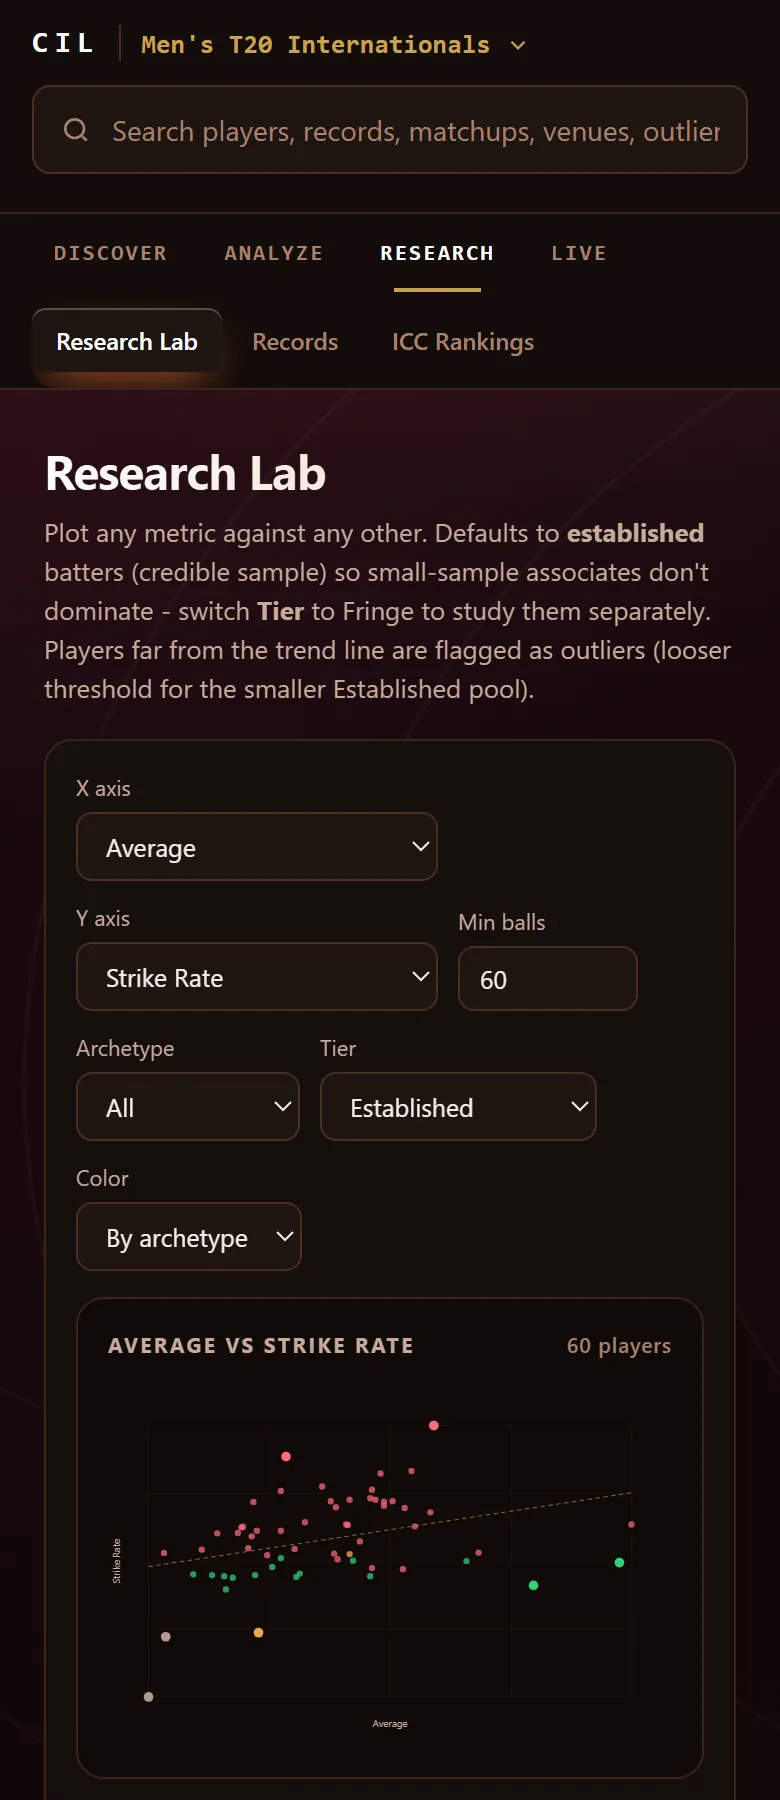
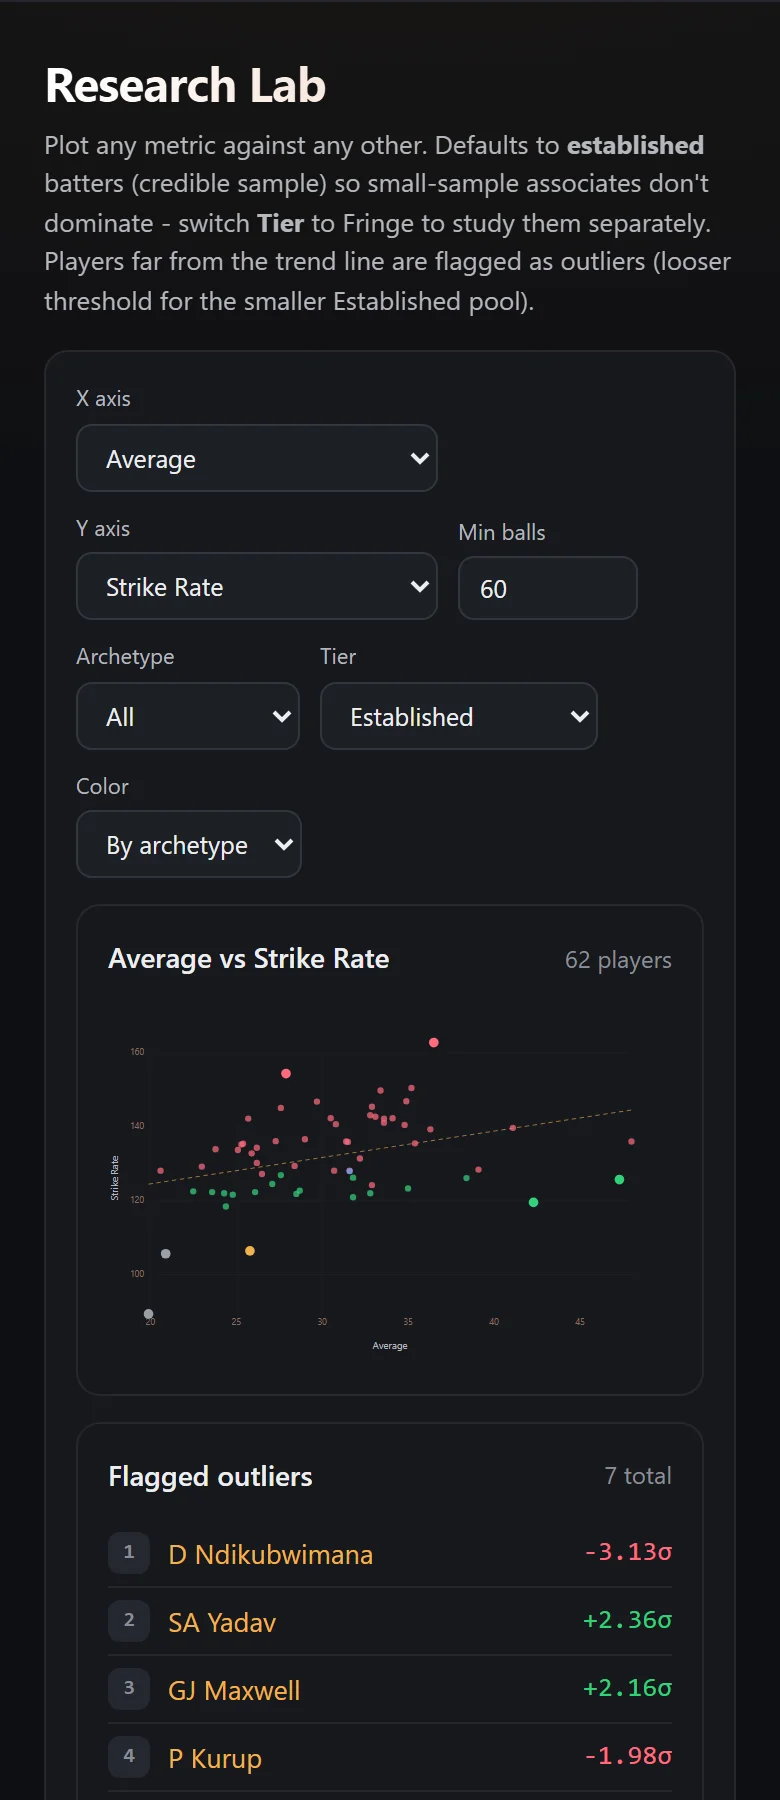
design: remove share card, polish remaining cards, new screenshots
- Remove the shareable player card (button, handler and canvas renderer)
- Home: flat "Today's discovery" hero with an amber edge; sentence-case
  section headings; units under each Trending research board; trait
  cards explain themselves on hover; competition badges no longer
  overlap long names
- Records: Batting / Bowling / Advanced / All filter instead of one long
  wall of 27 boards
- Compare: the better value in each row is highlighted
- Landing page screenshots and link preview recaptured in the new theme

diff --git a/web/dashboard/index.html b/web/dashboard/index.html
@@ -532,6 +532,24 @@
  .hx-bar span{display:block;height:100%;background:var(--accent2);border-radius:3px}
  .hx-bar.wk span{background:var(--wk)}
  .hx-go{color:var(--dim);font-size:12px;margin-top:4px}
+ /* ---- theme pass 2: home hero, section heads, competition cards, records filter, compare winners ---- */
+ .hero{background:var(--panel)!important;box-shadow:inset 3px 0 0 var(--accent2);border-radius:14px}
+ .sechead{text-transform:none;letter-spacing:0;font-size:15px;font-weight:600;color:var(--ink)}
+ .sechead .dim{font-weight:400;font-size:13px}
+ .trh{text-transform:none;letter-spacing:0;font-size:13.5px;color:var(--ink);font-weight:600;margin-bottom:2px}
+ .tru{color:var(--dim);font-size:11.5px;margin:0 0 8px}
+ .fstat .fsl{text-transform:none;letter-spacing:0;font-size:11.5px}
+ .ccard .t{padding-right:46px}
+ .conf{font-family:inherit;letter-spacing:0;text-transform:none;font-weight:600;font-size:11px}
+ .recchips{display:flex;gap:6px;flex-wrap:wrap;margin:4px 0 14px}
+ .recchips button{background:transparent;border:1px solid var(--hair2);border-radius:999px;color:var(--muted);padding:6px 13px;font-size:12.5px;cursor:pointer}
+ .recchips button.on{background:rgba(242,178,76,.14);border-color:var(--accent2);color:var(--accent2)}
+ td.best{color:var(--accent2)!important;font-weight:700}
+ .dhero{background:var(--panel)!important;border:1px solid var(--hair)!important;box-shadow:inset 3px 0 0 var(--accent2);border-radius:14px}
+ .dhero::before,.dhero::after{display:none!important}
+ .dh-kic{display:none}
+ .dh-lbl{text-transform:none;letter-spacing:0;font-size:12.5px;color:var(--accent2);margin-top:0}
+ .dh-head{background:none;-webkit-background-clip:initial;background-clip:initial;color:var(--ink);font-weight:700}
 </style>
 </head>
 <body>
@@ -939,7 +957,7 @@ function homeView(app){
   const avail=DISCOVER.filter(d=>_board(c,d.kind,d.f,d.dir,d.need).length);
   const dwrap=$(`<div><div class="sechead">Discover</div><div class="disc"></div><div id="ddpanel"></div></div>`);
   dwrap.querySelector('.disc').innerHTML=avail.map((d,i)=>{const top=_board(c,d.kind,d.f,d.dir,d.need)[0]||{};
-    return `<div class="dcard" data-i="${i}"><div class="dic">${d.ic}</div><div class="dt">${d.t}</div><div class="dd">${d.d}</div><div class="dtop">${esc(top.name||'')} <b class="num">${top.value??''}</b></div></div>`;}).join('');
+    return `<div class="dcard" data-i="${i}" title="${esc(x.d||'')}"><div class="dic">${d.ic}</div><div class="dt">${d.t}</div><div class="dd">${d.d}</div><div class="dtop">${esc(top.name||'')} <b class="num">${top.value??''}</b></div></div>`;}).join('');
   app.appendChild(dwrap);
   const dd=dwrap.querySelector('#ddpanel');
   dwrap.querySelectorAll('.dcard').forEach(card=>card.onclick=()=>{
@@ -1038,11 +1056,7 @@ function bowlerProfile(id){
   const meta=(window.CIL_PLAYERMETA||{})[id]||{};
   const isHttp=location.protocol.indexOf('http')===0;
   const photo=meta.photo||playerImg(b.name,meta.unique_name||meta.name,id)||(HAS_API?API_BASE+'/api/photo?name='+encodeURIComponent(meta.unique_name||meta.name||b.name):'');
-  w.appendChild($(`<div class="row" style="margin-top:20px;align-items:center"><button class="pill" id="bback">← back</button>${avatarHTML(b.name,photo)}<div><div class="row" style="gap:9px"><h1 style="margin:0">${esc(b.name)}</h1><span class="badge">Bowler</span>${b.qualified?'':'<span class="badge">below rate qualifier</span>'}<button class="pill" id="bcard" title="Download a shareable stat card (PNG)">Share card ↓</button></div><div class="dim" style="margin-top:2px">${esc(c.meta.label)}</div></div></div>`));
-  w.querySelector('#bcard').onclick=()=>playerCard({name:b.name,sub:c.meta.label+(meta.country?' · '+meta.country:''),badge:'Bowler',
-    tiles:[["Wickets",b.wickets],["Economy",b.economy],["Average",b.bowl_avg],["Strike rate",b.bowl_sr],["Dot %",b.dot_pct],["Balls",b.balls]],
-    pct:b.pct?[["Economy",b.pct.economy],["Strike rate",b.pct.bowl_sr],["Dot %",b.pct.dot_pct],["Era index",b.pct.era_index]]:[],
-    pctOf:c.meta.n_qual_bowl+' rated bowlers'});
+  w.appendChild($(`<div class="row" style="margin-top:20px;align-items:center"><button class="pill" id="bback">← back</button>${avatarHTML(b.name,photo)}<div><div class="row" style="gap:9px"><h1 style="margin:0">${esc(b.name)}</h1><span class="badge">Bowler</span>${b.qualified?'':'<span class="badge">below rate qualifier</span>'}</div><div class="dim" style="margin-top:2px">${esc(c.meta.label)}</div></div></div>`));
   const tiles=[["Wickets",b.wickets],["Economy",b.economy],["Average",b.bowl_avg],["Strike Rate",b.bowl_sr],["Balls",b.balls],["Runs",b.runs],["Dot %",b.dot_pct],["Boundary %",b.bnd_pct]];
   const g=$(`<div class="grid bento" style="margin-top:14px"></div>`);
   g.innerHTML=tiles.map(t=>`<div class="s3"><div class="panel kpi"><div class="l">${t[0]}</div><div class="n"${typeof t[1]==='number'?' data-count':''}>${fmtN(t[1])}</div></div></div>`).join('');
@@ -1069,11 +1083,7 @@ function playerView(pid){
   const isHttp=location.protocol.indexOf('http')===0;
   const photo=meta.photo||playerImg(p.name,meta.unique_name||meta.name,pid)||(HAS_API?API_BASE+'/api/photo?name='+encodeURIComponent(meta.unique_name||meta.name||p.name):'');
   const ciLink=meta.cricinfo_id?`<a class="pill" href="https://www.espncricinfo.com/ci/content/player/${meta.cricinfo_id}.html" target="_blank" rel="noopener">ESPNcricinfo ↗</a>`:'';
-  w.appendChild($(`<div class="row" style="margin-top:20px;align-items:center"><button class="pill" id="back">← back</button>${avatarHTML(p.name,photo)}<div><div class="row" style="gap:9px"><h1 style="margin:0">${esc(p.name)}</h1>${archPill(p.archetype)}${p.qualified?'':'<span class="badge">below rate qualifier</span>'}${meta.country?`<span class="badge">${esc(meta.country)}</span>`:''}${ciLink}<button class="pill" id="pcard" title="Download a shareable stat card (PNG)">Share card ↓</button></div><div class="dim" style="margin-top:2px">${esc(c.meta.label)}</div></div></div>`));
-  w.querySelector('#pcard').onclick=()=>playerCard({name:p.name,sub:c.meta.label+(meta.country?' · '+meta.country:''),badge:p.archetype||'Batter',
-    tiles:[["Runs",p.runs],["Average",p.avg],["Strike rate",p.sr],["Innings",p.innings],["50s / 100s",`${p.fifties}/${p.hundreds}`],["Highest",p.highest]],
-    pct:p.pct?[["Average",p.pct.avg],["Strike rate",p.pct.sr],["Boundary %",p.pct.boundary_pct],["Consistency",p.pct.consistency],["Era index",p.pct.era_index]]:[],
-    pctOf:c.meta.n_qual_bat+' rated batters',color:ARCH_COLOR[p.archetype]});
+  w.appendChild($(`<div class="row" style="margin-top:20px;align-items:center"><button class="pill" id="back">← back</button>${avatarHTML(p.name,photo)}<div><div class="row" style="gap:9px"><h1 style="margin:0">${esc(p.name)}</h1>${archPill(p.archetype)}${p.qualified?'':'<span class="badge">below rate qualifier</span>'}${meta.country?`<span class="badge">${esc(meta.country)}</span>`:''}${ciLink}</div><div class="dim" style="margin-top:2px">${esc(c.meta.label)}</div></div></div>`));
   const tiles=[["Runs",p.runs],["Average",p.avg],["Strike Rate",p.sr],["Innings",p.innings],["50/100",`${p.fifties}/${p.hundreds}`],["Highest",p.highest],["Boundary %",p.boundary_pct],["Sixes",p.sixes]];
   const g=$(`<div class="grid bento" style="margin-top:14px"></div>`);
   g.innerHTML=tiles.map(t=>`<div class="s3"><div class="panel kpi"><div class="l">${t[0]}</div><div class="n"${typeof t[1]==='number'?' data-count':''}>${fmtN(t[1])}</div></div></div>`).join('');
@@ -1712,10 +1722,10 @@ function homeView(app){
       :`<div class="dh-head">Select a competition to surface a discovery.</div>`}</div>`);
   if(d&&d.pid)hero.onclick=()=>{state.player=d.pid;render();};
   app.appendChild(hero);
-  const cols=[{ic:icn('bolt'),t:'Most Clutch',b:['bat','clutch_index','desc']},{ic:icn('shield'),t:'Collapse-Proof',b:['bat','collapse_resist','desc','collapse_balls']},{ic:icn('target'),t:'Strike Bowlers',b:['bowl','bowl_sr','asc']}];
+  const cols=[{ic:icn('bolt'),t:'Most clutch',u:'knockout SR vs overall, ×100',b:['bat','clutch_index','desc']},{ic:icn('shield'),t:'Collapse-proof',u:'SR after a collapse vs overall, ×100',b:['bat','collapse_resist','desc','collapse_balls']},{ic:icn('target'),t:'Strike bowlers',u:'balls per wicket',b:['bowl','bowl_sr','asc']}];
   const trend=$(`<div class="panel" style="margin-top:14px"><div class="sechead" style="margin:0 0 12px">Trending research ${infoIcon(SHRINK_TIP)}</div><div class="trend"></div></div>`);
   trend.querySelector('.trend').innerHTML=cols.map(col=>{const rows=_board(c,col.b[0],col.b[1],col.b[2],col.b[3]).slice(0,5);
-    return `<div class="trcol"><div class="trh">${col.ic} ${col.t}</div>${rows.map((x,i)=>`<div class="trrow"><span class="rank ${i<3?'r'+(i+1):''}">${i+1}</span><a class="plink" data-pid="${x.pid}">${esc(x.name)}</a><b class="num">${x.value}</b></div>`).join('')}</div>`;}).join('');
+    return `<div class="trcol"><div class="trh">${col.ic} ${col.t}</div>${col.u?`<div class="tru">${col.u}</div>`:''}${rows.map((x,i)=>`<div class="trrow"><span class="rank ${i<3?'r'+(i+1):''}">${i+1}</span><a class="plink" data-pid="${x.pid}">${esc(x.name)}</a><b class="num">${x.value}</b></div>`).join('')}</div>`;}).join('');
   app.appendChild(trend);
   const viz=$(`<div class="grid bento" style="margin-top:14px"></div>`);
   viz.appendChild($(`<div class="panel s6"><h2>Outlier map <span class="r">average ↔ strike rate · red = outlier</span></h2>${scatterSVG(c)}</div>`));
@@ -1724,7 +1734,7 @@ function homeView(app){
   app.appendChild($(`<div class="methnote">${HOME_NOTE}</div>`));
   const avail=DISCOVER.filter(x=>_board(c,x.kind,x.f,x.dir,x.need).length);
   const dwrap=$(`<div><div class="sechead">Explore by trait ${infoIcon(SHRINK_TIP)}</div><div class="disc"></div><div id="ddpanel"></div></div>`);
-  dwrap.querySelector('.disc').innerHTML=avail.map((x,i)=>{const top=_board(c,x.kind,x.f,x.dir,x.need)[0]||{};return `<div class="dcard" data-i="${i}"><div class="dic">${x.ic}</div><div class="dt">${x.t}</div><div class="dtop">${esc(top.name||'')} <b class="num">${top.value??''}</b></div></div>`;}).join('');
+  dwrap.querySelector('.disc').innerHTML=avail.map((x,i)=>{const top=_board(c,x.kind,x.f,x.dir,x.need)[0]||{};return `<div class="dcard" data-i="${i}" title="${esc(x.d||'')}"><div class="dic">${x.ic}</div><div class="dt">${x.t}</div><div class="dtop">${esc(top.name||'')} <b class="num">${top.value??''}</b></div></div>`;}).join('');
   app.appendChild(dwrap);
   const dd=dwrap.querySelector('#ddpanel');
   dwrap.querySelectorAll('.dcard').forEach(card=>card.onclick=()=>{const x=avail[+card.dataset.i],rows=_board(c,x.kind,x.f,x.dir,x.need).slice(0,20),mx=Math.max(...rows.map(v=>Math.abs(v.value)||0),1);
@@ -1806,41 +1816,6 @@ function networkView(app){
   panel.querySelectorAll('.netn').forEach(g=>g.onclick=()=>{state.netPlayer=g.getAttribute('data-pid');render();});
 }
 /* ===================== CAREER TIMELINE + VENUES (static, lazy-loaded careers/<shard>.js) ===================== */
-/* ===================== SHAREABLE PLAYER CARD (canvas -> PNG, no libraries) ===================== */
-function playerCard(o){
-  const W=1200,H=630,cv=document.createElement('canvas');cv.width=W;cv.height=H;
-  const x=cv.getContext('2d'),F='system-ui,-apple-system,"Segoe UI",Roboto,sans-serif',acc=o.color||'#F2B24C';
-  const bg=x.createLinearGradient(0,0,W,H);bg.addColorStop(0,'#1C100C');bg.addColorStop(1,'#0C0706');x.fillStyle=bg;x.fillRect(0,0,W,H);
-  const glow=x.createRadialGradient(W*0.85,-40,10,W*0.85,-40,520);glow.addColorStop(0,'rgba(229,154,47,.35)');glow.addColorStop(1,'rgba(229,154,47,0)');x.fillStyle=glow;x.fillRect(0,0,W,H);
-  x.fillStyle=acc;x.fillRect(0,0,10,H);
-  x.fillStyle='#8B8E96';x.font=`600 20px ${F}`;x.fillText('CRICKET INTELLIGENCE LAB',64,74);
-  x.fillStyle='#ECEDEE';x.font=`700 64px ${F}`;let nm=o.name;while(x.measureText(nm).width>W-128&&nm.length>4)nm=nm.slice(0,-2);x.fillText(nm===o.name?nm:nm+'…',64,152);
-  x.font=`500 24px ${F}`;x.fillStyle='#B4B7BE';x.fillText(o.sub||'',64,192);
-  if(o.badge){x.font=`700 20px ${F}`;const bw=x.measureText(o.badge).width+28;x.fillStyle=acc+'33';x.beginPath();x.roundRect(W-64-bw,50,bw,38,19);x.fill();x.fillStyle=acc;x.fillText(o.badge,W-64-bw+14,76);}
-  const tw=(W-128-5*20)/6;
-  o.tiles.forEach((t,i)=>{const tx=64+i*(tw+20),ty=232;x.fillStyle='rgba(255,255,255,.04)';x.beginPath();x.roundRect(tx,ty,tw,120,14);x.fill();
-    x.fillStyle='#8B8E96';x.font=`600 17px ${F}`;x.fillText(String(t[0]).toUpperCase(),tx+18,ty+36);
-    x.fillStyle='#ECEDEE';x.font=`700 40px ${F}`;x.fillText(t[1]==null?'–':String(t[1]),tx+18,ty+92);});
-  if(o.pct&&o.pct.length){
-    x.fillStyle='#8B8E96';x.font=`600 18px ${F}`;x.fillText(`PERCENTILE vs ${o.pctOf||''}`.toUpperCase(),64,404);
-    const rows=o.pct.filter(r=>r[1]!=null),cols=Math.ceil(rows.length/2)>2?3:2,cw=(W-128-(cols-1)*40)/cols;
-    rows.forEach((r,i)=>{const col=i%cols,row=Math.floor(i/cols),px=64+col*(cw+40),py=436+row*74;
-      x.fillStyle='#B4B7BE';x.font=`500 19px ${F}`;x.fillText(r[0],px,py+18);
-      x.fillStyle='#ECEDEE';x.font=`700 19px ${F}`;const v=Math.round(r[1]);x.textAlign='right';x.fillText(String(v),px+cw,py+18);x.textAlign='left';
-      x.fillStyle='rgba(255,255,255,.08)';x.beginPath();x.roundRect(px,py+30,cw,10,5);x.fill();
-      x.fillStyle=v>=75?'#33D17A':v>=40?'#F2B24C':'#FF6B7E';x.beginPath();x.roundRect(px,py+30,Math.max(6,cw*v/100),10,5);x.fill();});
-  }
-  x.fillStyle='#6E5246';x.font=`500 16px ${F}`;x.fillText('Ball-by-ball data: cricsheet.org',64,H-30);
-  x.textAlign='right';x.fillText(location.host||'',W-64,H-30);x.textAlign='left';
-  const file=(o.name||'player').replace(/[^a-z0-9]+/gi,'-').toLowerCase()+'-card.png';
-  cv.toBlob(async blob=>{
-    if(!blob)return;
-    const f=new File([blob],file,{type:'image/png'});
-    if(navigator.canShare&&navigator.canShare({files:[f]})&&matchMedia('(pointer:coarse)').matches){try{await navigator.share({files:[f],title:o.name});return;}catch(e){}}
-    const a=document.createElement('a');a.href=URL.createObjectURL(blob);a.download=file;document.body.appendChild(a);a.click();
-    setTimeout(()=>{URL.revokeObjectURL(a.href);a.remove();},1500);
-  },'image/png');
-}
 /* careers/<0-f>.js: 16 shards keyed by the first hex char of the player id, so a
    profile pulls ~700 KB (~130 KB gzipped) instead of the whole 11 MB set. */
 window.CIL_CAREER=window.CIL_CAREER||{};window.CIL_VENUES=window.CIL_VENUES||{};

diff --git a/web/dashboard/features.js b/web/dashboard/features.js
@@ -672,6 +672,47 @@ buildPaletteIndex = function () {
   return items;
 };
 
+/* ===================== records: category filter ===================== */
+const REC_CAT = {
+  batting: ['Most Runs', 'Most Hundreds', 'Most Fifties', 'Most Sixes', 'Most Innings', 'Highest Average', 'Highest Strike Rate',
+    'Most Consistent', 'Best Conversion %', 'Best Chase Average', 'Best Death-overs SR', 'Top Partnerships'],
+  bowling: ['Most Wickets', 'Best Economy', 'Best Bowling SR', 'Highest Dot % (bowl)', 'Best Era-Adjusted (bowl)', 'Best Bowling Spells', 'Bowling outliers'],
+  advanced: ['Best Era-Adjusted Index', 'Best Strike Rotation %', 'Best Acceleration Index', 'Best Pressure SR (chase)', 'Best Clutch Index',
+    'Best Collapse Resistance', 'Most Self-Reliant (partners)', 'Batting outliers'],
+};
+const _recordsView = recordsView;
+recordsView = function (app) {
+  _recordsView(app);
+  const grid = [...app.querySelectorAll('.grid.bento')].find(g => g.querySelector('.panel h2')); if (!grid) return;
+  const cards = [...grid.children].map(el => { const h = el.querySelector('h2'); const t = h ? [...h.childNodes].filter(n => n.nodeType === 3).map(n => n.textContent).join('').trim() : '';
+    const cat = Object.keys(REC_CAT).find(k => REC_CAT[k].includes(t)) || 'advanced'; return { el, cat }; });
+  const count = k => k === 'all' ? cards.length : cards.filter(c => c.cat === k).length;
+  const chips = $(`<div class="recchips" role="group" aria-label="Record type">${[['batting', 'Batting'], ['bowling', 'Bowling'], ['advanced', 'Advanced'], ['all', 'All']]
+    .filter(([k]) => count(k)).map(([k, l]) => `<button data-k="${k}">${l} <span class="dim">${count(k)}</span></button>`).join('')}</div>`);
+  grid.before(chips);
+  const apply = k => { state.recCat = k; chips.querySelectorAll('button').forEach(b => { b.classList.toggle('on', b.dataset.k === k); b.setAttribute('aria-pressed', b.dataset.k === k); });
+    cards.forEach(c => { c.el.style.display = k === 'all' || c.cat === k ? '' : 'none'; }); };
+  apply(count(state.recCat || 'batting') ? (state.recCat || 'batting') : 'all');
+  chips.querySelectorAll('button').forEach(b => b.onclick = () => apply(b.dataset.k));
+};
+
+/* ===================== compare: mark the better value in each row ===================== */
+const LOWER_BETTER = new Set(['dot %', 'economy', 'bowl sr']);
+function decorateCompare(root) {
+  root.querySelectorAll('table').forEach(t => {
+    const th = t.querySelector('thead th'); if (!th || th.textContent.trim().toLowerCase().indexOf('metric') !== 0 || t.dataset.cmp === String(t.rows.length)) return;
+    t.dataset.cmp = String(t.rows.length);
+    t.querySelectorAll('tbody tr').forEach(tr => {
+      const cells = [...tr.cells].slice(1), vals = cells.map(td => parseFloat(td.textContent.replace(/,/g, '')));
+      cells.forEach(td => td.classList.remove('best'));
+      if (cells.length < 2 || vals.some(v => !isFinite(v))) return;
+      const low = LOWER_BETTER.has(tr.cells[0].textContent.trim().toLowerCase()), best = low ? Math.min(...vals) : Math.max(...vals);
+      if (vals.filter(v => v === best).length === vals.length) return;
+      cells.forEach((td, i) => { if (vals[i] === best) td.classList.add('best'); });
+    });
+  });
+}
+
 /* ===================== metric explanations ===================== */
 const GLOSSARY = {
   'era index': "Runs compared with what an average batter would score on the same balls in the same seasons. 100 = par for their era; 120 = 20% better.",
@@ -740,12 +781,12 @@ const _paint = paint;
 paint = function (app) {
   _paint(app);
   window._syncSince && window._syncSince();
-  decorateGlossary(app);
+  decorateGlossary(app); decorateCompare(app);
 };
 {
   // late-arriving panels (career, matchups, extras) get explanations too
   let t = 0;
-  new MutationObserver(() => { clearTimeout(t); t = setTimeout(() => { const a = document.getElementById('app'); a && decorateGlossary(a); }, 120); })
+  new MutationObserver(() => { clearTimeout(t); t = setTimeout(() => { const a = document.getElementById('app'); if (a) { decorateGlossary(a); decorateCompare(a); } }, 120); })
     .observe(document.getElementById('app'), { childList: true, subtree: true });
 }
 const _init = init;

diff --git a/README.md b/README.md
@@ -12,7 +12,6 @@ Ball-by-ball cricket analytics across **48 competitions, 22,000+ matches and 11 
 - **Form by year:** runs, average or strike rate (wickets, economy or strike rate for bowlers) per season, for the selected competition or all formats
 - **Where they stand:** each key stat drawn against every rated player in the competition, so "96th percentile" shows how far ahead that really is
 - **Also played in:** every other competition a player appears in, one click away
-- **Shareable player cards:** a 1200×630 PNG stat card (opens the share sheet on phones)
 
 **Analysis**
 - **Time window:** "All time", "Last 2 seasons", "Since 2015"… recomputes leaderboards, records, percentiles, archetypes and profile numbers for that window
